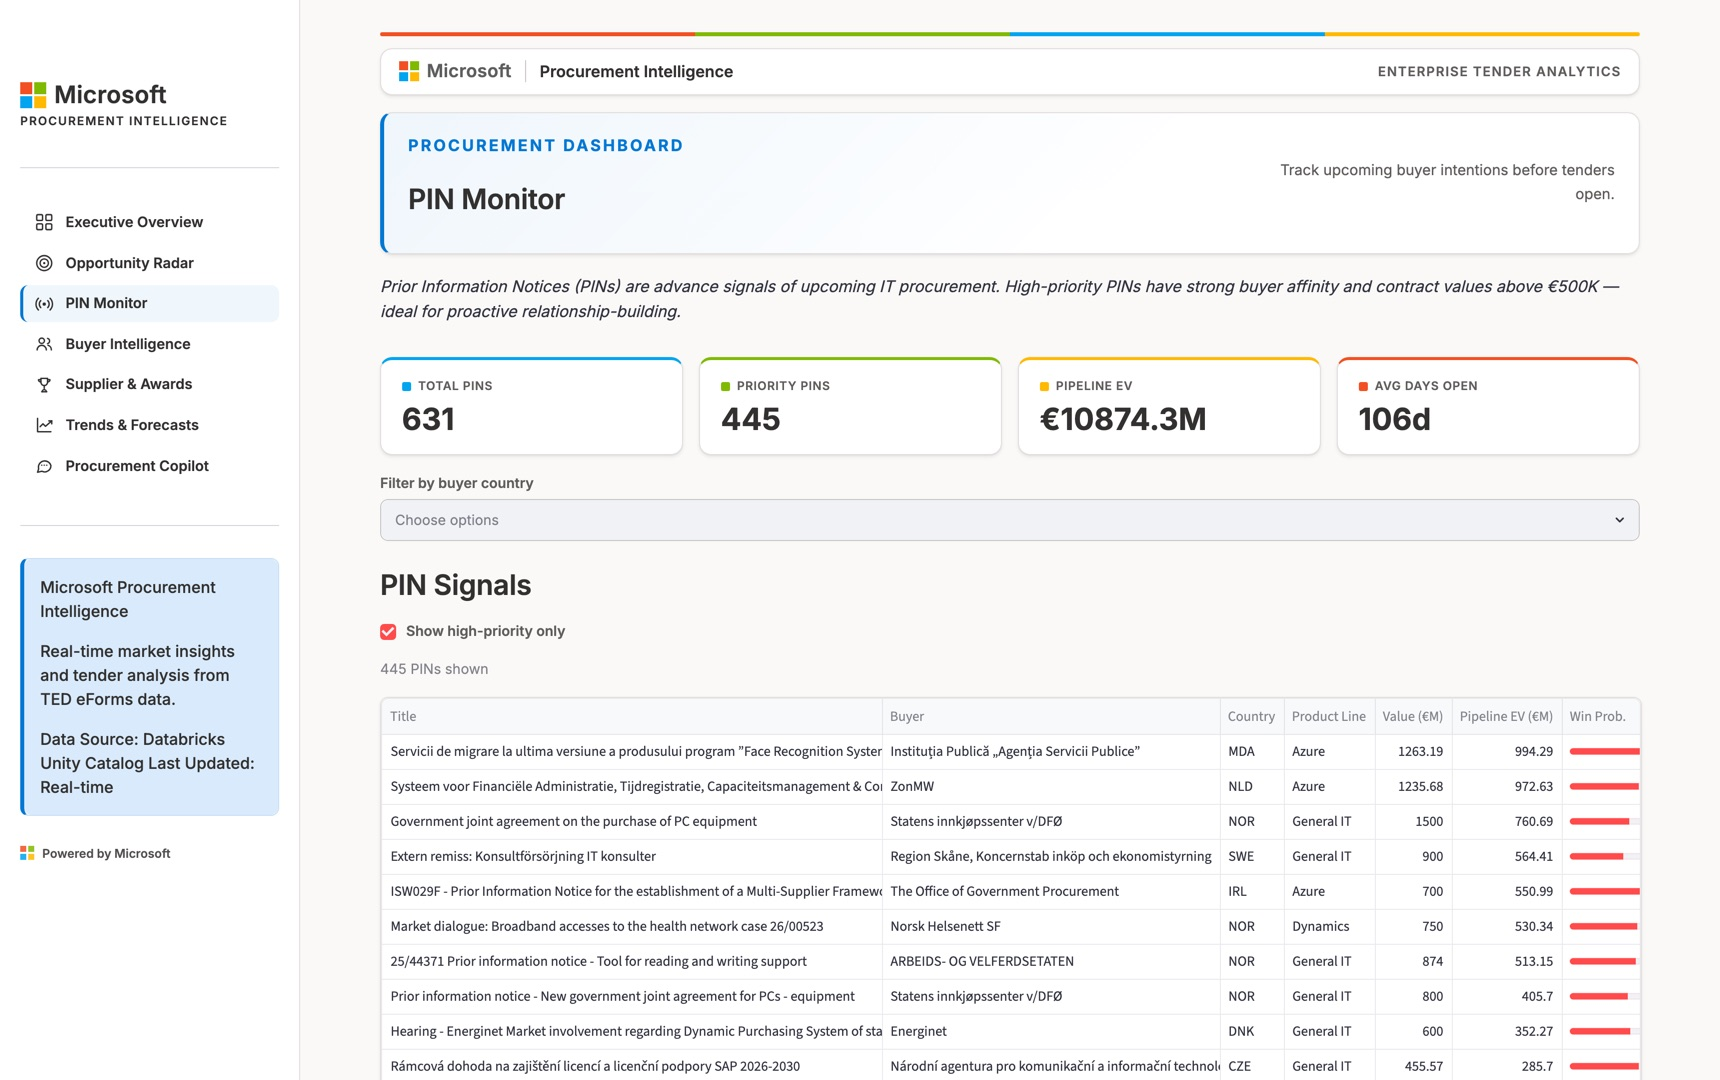
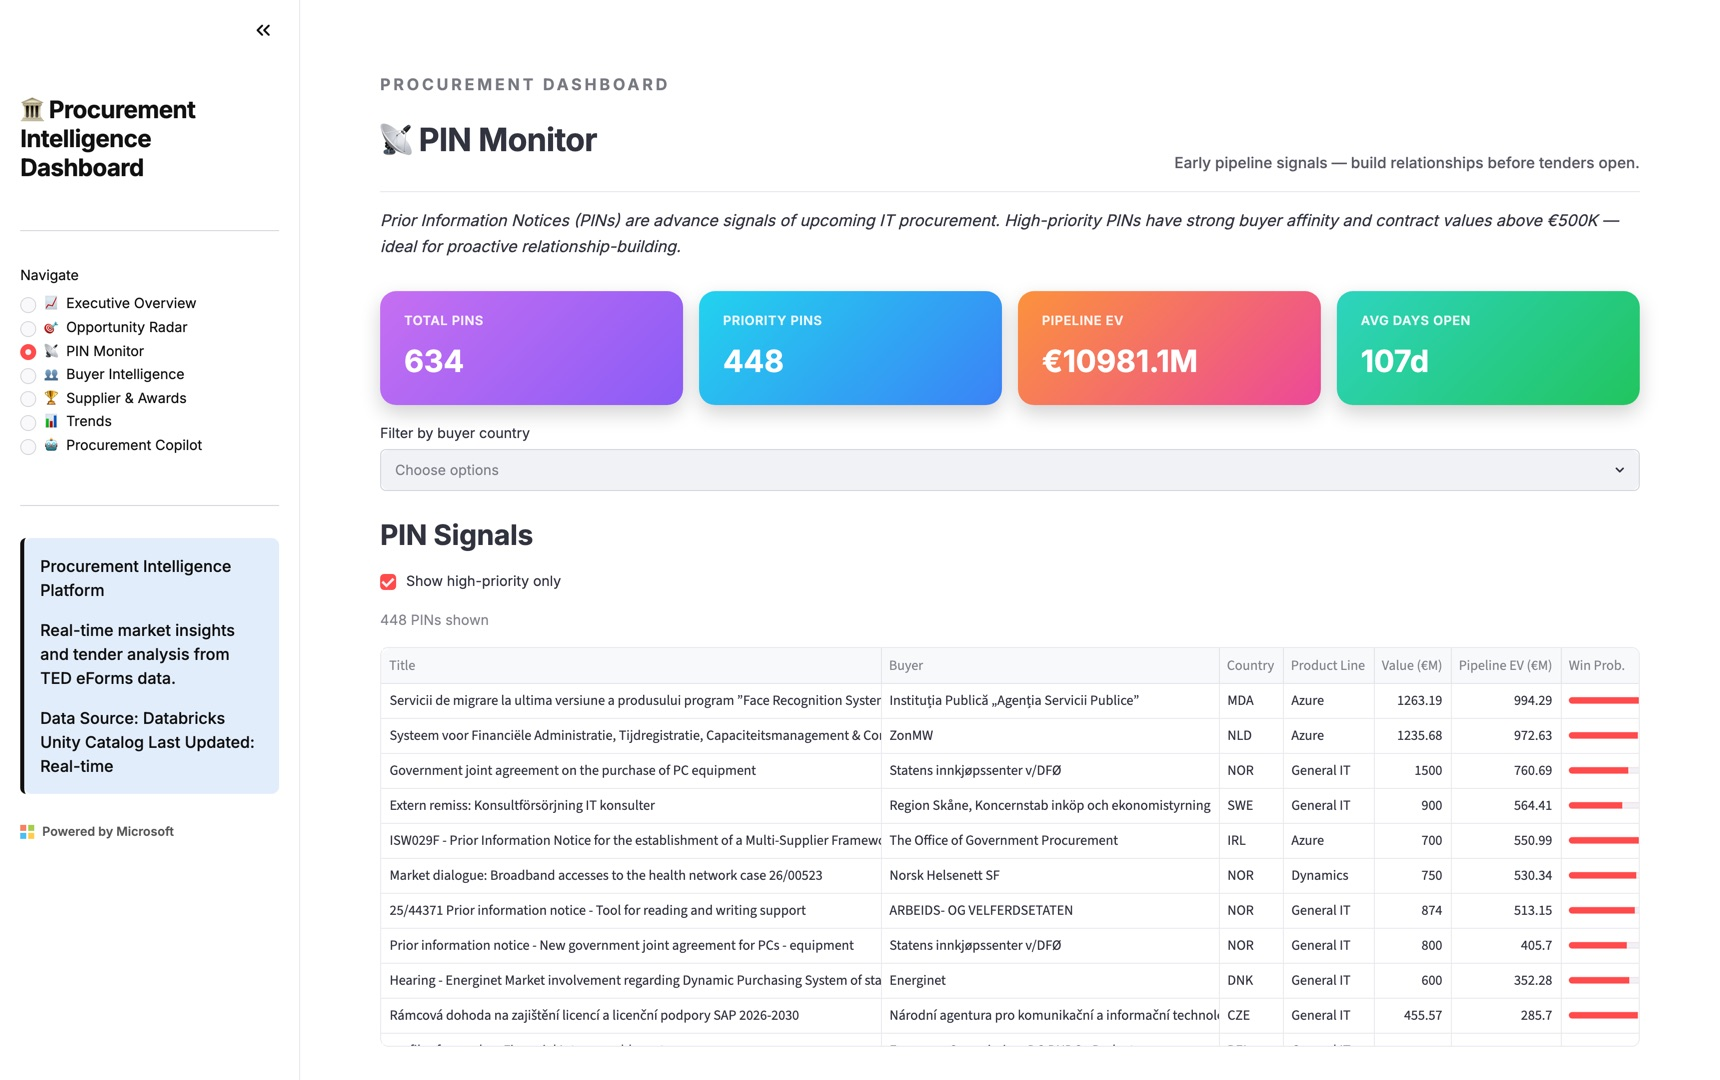
Team feedback round: fresh app.py screenshots, updated Gold-layer numbers, full roster, Trends rename, Copilot-first demo, particle animations

diff --git a/index.html b/index.html
@@ -51,12 +51,13 @@
     padding: 58px 72px;
     display: flex; flex-direction: column; justify-content: center;
     opacity: 0; visibility: hidden;
-    transform: translateY(14px);
-    transition: opacity .45s ease, transform .45s ease, visibility .45s;
+    transform: translate(var(--enter-x, 0px), 14px) scale(.985);
+    transition: opacity .5s cubic-bezier(.2,.7,.3,1), transform .5s cubic-bezier(.2,.7,.3,1), visibility .5s;
     overflow: hidden;
     border-radius: 6px;
   }
-  .slide.active { opacity: 1; visibility: visible; transform: translateY(0); z-index: 2; }
+  .slide.active { opacity: 1; visibility: visible; transform: translate(0, 0) scale(1); z-index: 2; }
+  .particles { position: absolute; inset: 0; width: 100%; height: 100%; pointer-events: none; }
   .slide.dark { background: var(--dark-bg); color: var(--dark-text); }
   .slide.dark .eyebrow { color: var(--sq-blue); }
   .slide.dark h2 { color: var(--dark-text); }
@@ -98,15 +99,24 @@
 
   .brandline { display: flex; align-items: center; gap: 14px; margin-bottom: 34px; }
   .brandline .mslogo { width: 34px; height: 34px; }
+  .slide.active .brandline .mslogo span { opacity: 0; transform: scale(0) rotate(-90deg); animation: sq-pop .55s cubic-bezier(.2,.8,.3,1.35) forwards; }
+  .slide.active .brandline .mslogo span:nth-child(1) { animation-delay: .10s; }
+  .slide.active .brandline .mslogo span:nth-child(2) { animation-delay: .22s; }
+  .slide.active .brandline .mslogo span:nth-child(3) { animation-delay: .34s; }
+  .slide.active .brandline .mslogo span:nth-child(4) { animation-delay: .46s; }
+  @keyframes sq-pop { to { opacity: 1; transform: scale(1) rotate(0deg); } }
   .brandline .name { font-size: 24px; font-weight: 600; color: var(--dark-text); letter-spacing: -0.01em; }
   .brandline .divider { width: 1px; height: 26px; background: var(--dark-line); }
   .brandline .product { font-size: 16px; color: var(--dark-mute); font-weight: 400; }
 
   #s1 h1 { font-size: 66px; font-weight: 700; line-height: 1.06; letter-spacing: -0.02em; max-width: 950px; }
   #s1 h1 .grad {
-    background: linear-gradient(92deg, #4FC3F7 0%, #0078D4 45%, #7FBA00 100%);
+    background: linear-gradient(92deg, #4FC3F7 0%, #0078D4 35%, #7FBA00 65%, #4FC3F7 100%);
+    background-size: 220% 100%;
     -webkit-background-clip: text; background-clip: text; color: transparent;
+    animation: shimmer 7s ease-in-out infinite;
   }
+  @keyframes shimmer { 0%, 100% { background-position: 0% 50%; } 50% { background-position: 100% 50%; } }
   #s1 .sub { font-size: 21px; color: var(--dark-mute); margin-top: 22px; max-width: 760px; line-height: 1.5; }
   #s1 .meta { position: absolute; bottom: 54px; left: 72px; right: 72px; display: flex; justify-content: space-between; align-items: flex-end; }
   #s1 .team { font-size: 14.5px; color: var(--dark-mute); line-height: 1.7; }
@@ -124,7 +134,13 @@
   .card {
     background: var(--paper); border: 1px solid var(--line); border-radius: var(--radius);
     padding: 22px 24px; box-shadow: var(--shadow);
+    transition: transform .22s ease, box-shadow .22s ease;
   }
+  .card:hover, .page-card:hover, .demo-step:hover, .stage-card:hover {
+    transform: translateY(-4px);
+    box-shadow: 0 14px 34px rgba(16, 24, 40, 0.16);
+  }
+  .page-card, .demo-step, .stage-card { transition: transform .22s ease, box-shadow .22s ease; }
   .dark .card { background: var(--dark-card); border-color: var(--dark-line); box-shadow: none; }
   .card .k-dot { width: 10px; height: 10px; border-radius: 3px; display: inline-block; margin-right: 8px; }
   .card h4 { font-size: 16.5px; font-weight: 700; margin-bottom: 6px; display: flex; align-items: center; }
@@ -132,6 +148,8 @@
   .dark .card p { color: var(--dark-mute); }
 
   .stat { font-size: 46px; font-weight: 700; letter-spacing: -0.02em; line-height: 1; }
+  .stat.pop { animation: stat-pop .45s cubic-bezier(.2,.8,.3,1.4); }
+  @keyframes stat-pop { 0% { transform: scale(1); } 45% { transform: scale(1.07); } 100% { transform: scale(1); } }
   .stat-label { font-size: 12.5px; font-weight: 700; text-transform: uppercase; letter-spacing: .12em; color: var(--ink-faint); margin-bottom: 10px; }
   .dark .stat-label { color: var(--dark-mute); }
 
@@ -268,6 +286,11 @@
     background: linear-gradient(135deg, #0078D4, #005A9E);
     color: #fff; border-radius: 16px; padding: 26px 34px; font-size: 22px; font-weight: 700;
     box-shadow: 0 14px 44px rgba(0,120,212,.42); transition: transform .18s ease, box-shadow .18s ease;
+    animation: cta-glow 2.6s ease-in-out infinite;
+  }
+  @keyframes cta-glow {
+    0%, 100% { box-shadow: 0 14px 44px rgba(0,120,212,.42); }
+    50% { box-shadow: 0 14px 60px rgba(0,164,239,.65); }
   }
   .demo-cta small { font-size: 13px; font-weight: 400; opacity: .85; }
   .demo-cta:hover { transform: translateY(-3px); box-shadow: 0 20px 54px rgba(0,120,212,.55); }
@@ -354,6 +377,7 @@
   <!-- 1 ▸ TITLE -->
   <section class="slide dark" id="s1">
     <div class="orb o1"></div><div class="orb o2"></div><div class="orb o3"></div>
+    <canvas class="particles"></canvas>
     <div class="brandline" data-anim="1">
       <span class="mslogo"><span></span><span></span><span></span><span></span></span>
       <span class="name">Microsoft</span>
@@ -365,7 +389,7 @@
     <div class="meta">
       <div class="team" data-anim="4">
         <b>Corporate Capstone, Group Microsoft 3</b> · IE University, MBDS<br>
-        Bojana Blincevic · Nicolás Beard · Omar Ajlouni · Ricardo Liévano · Shadi Hamarneh
+        Bojana Belincevic · Nicolás Beard · Mateus Carneiro · Omar Ajlouni · Ricardo Liévano · Shadi Hamarneh
       </div>
       <div class="live-pill" data-anim="5"><span class="live-dot"></span> System live · refreshed daily at 08:00 UTC</div>
     </div>
@@ -375,7 +399,7 @@
   <section class="slide" id="s2">
     <div class="eyebrow" data-anim="1">The problem</div>
     <h2 data-anim="1">Winnable tenders are found too late, or not at all</h2>
-    <p class="lede" data-anim="2">Every public IT contract in the EU is announced in the open, on TED. In the last 30 days alone, 83,659 notices were published. The signal is public. The problem is scale and noise.</p>
+    <p class="lede" data-anim="2">Every public IT contract in the EU is announced in the open, on TED. In the last 30 days alone, 84,337 notices were published. The signal is public. The problem is scale and noise.</p>
     <div class="grid" data-anim="3">
       <div class="card"><div class="stat-label">Published on TED</div><div class="stat">~2,700<span style="font-size:20px; color:var(--ink-faint); font-weight:600;"> notices/day</span></div><p style="margin-top:8px;">Peaking above 4,000 on busy days, across every sector and every member state.</p></div>
       <div class="card"><div class="stat-label">Format</div><div class="stat" style="font-size:34px; line-height:1.2;">Deeply nested XML</div><p style="margin-top:8px;">eForms notices with multi-step reference chains. Not readable by humans at scale.</p></div>
@@ -528,12 +552,12 @@
     <div class="eyebrow" data-anim="1">The product</div>
     <h2 data-anim="1">Seven pages, one question each</h2>
     <div class="grid" data-anim="2">
-      <div class="page-card"><h4>Executive Overview</h4><div class="q">"What is the market?"</div><p>232,330 open tenders, 91 countries, live KPIs.</p></div>
+      <div class="page-card"><h4>Executive Overview</h4><div class="q">"What is the market?"</div><p>234,164 open tenders, 93 countries, live KPIs.</p></div>
       <div class="page-card"><h4>Opportunity Radar</h4><div class="q">"Which tenders should we chase?"</div><p>Every open IT lot, ranked by ML score.</p></div>
-      <div class="page-card"><h4>PIN Monitor</h4><div class="q">"Who is about to buy?"</div><p>631 pre-tender signals, mapped to product lines.</p></div>
+      <div class="page-card"><h4>PIN Monitor</h4><div class="q">"Who is about to buy?"</div><p>634 pre-tender signals, mapped to product lines.</p></div>
       <div class="page-card"><h4>Buyer Intelligence</h4><div class="q">"Who buys, and how?"</div><p>Top authorities, legal types, spend patterns.</p></div>
-      <div class="page-card"><h4>Supplier &amp; Awards</h4><div class="q">"Who is winning today?"</div><p>226,002 awards and the criteria behind them.</p></div>
-      <div class="page-card"><h4>Trends &amp; Forecasts</h4><div class="q">"How is the market moving?"</div><p>Daily volume, momentum, 30 and 90 day outlook.</p></div>
+      <div class="page-card"><h4>Supplier &amp; Awards</h4><div class="q">"Who is winning today?"</div><p>228,117 awards and the criteria behind them.</p></div>
+      <div class="page-card"><h4>Trends</h4><div class="q">"How is the market moving?"</div><p>Daily notice volume and market momentum over time.</p></div>
       <div class="page-card"><h4>Procurement Copilot</h4><div class="q">"Can I just ask?"</div><p>Natural language answers, grounded in Gold data.</p></div>
       <div class="page-card" style="background:linear-gradient(135deg,#0078D4,#005A9E); border:none;"><h4 style="color:#fff;">Built for Microsoft</h4><div class="q" style="color:rgba(255,255,255,.85);">Fluent design, product line mapping</div><p style="color:rgba(255,255,255,.85);">PINs and tenders tagged Azure, Dynamics, M365, or General IT.</p></div>
     </div>
@@ -580,9 +604,9 @@
           <div class="b"><span><b>Mapped to Microsoft:</b> every signal is tagged Azure, Dynamics, or General IT, with a pipeline expected value.</span></div>
         </div>
         <div class="kpi-row" data-anim="3">
-          <div class="kpi-mini"><div class="v">631</div><div class="l">Live PINs</div></div>
-          <div class="kpi-mini"><div class="v">445</div><div class="l">High priority</div></div>
-          <div class="kpi-mini"><div class="v">€10.9B</div><div class="l">Pipeline EV</div></div>
+          <div class="kpi-mini"><div class="v">634</div><div class="l">Live PINs</div></div>
+          <div class="kpi-mini"><div class="v">448</div><div class="l">High priority</div></div>
+          <div class="kpi-mini"><div class="v">€11.0B</div><div class="l">Pipeline EV</div></div>
         </div>
       </div>
     </div>
@@ -636,9 +660,9 @@
       <div data-anim="3" style="font-size:13.5px; color:var(--dark-mute); max-width:230px; line-height:1.55;">Scan to follow along on your own device while we present.</div>
     </div>
     <div class="demo-steps">
-      <div class="demo-step" data-anim="4"><div class="n">1</div><h4>Executive Overview</h4><p>The whole EU market on one screen: 232,330 open tenders across 91 countries, updated this morning.</p></div>
-      <div class="demo-step" data-anim="5"><div class="n">2</div><h4>Opportunity Radar + PIN Monitor</h4><p>Filter to a country, watch the ranking reorder, then jump to the buyers who are about to publish tenders.</p></div>
-      <div class="demo-step" data-anim="6"><div class="n">3</div><h4>Procurement Copilot</h4><p>Ask "who are the top 5 buyers by spend?" and watch it call a Gold layer tool and answer with real figures.</p></div>
+      <div class="demo-step" data-anim="4"><div class="n">1</div><h4>Procurement Copilot</h4><p>We start here: ask "who are the top 5 buyers by spend?" and watch it call a Gold layer tool and answer with real figures.</p></div>
+      <div class="demo-step" data-anim="5"><div class="n">2</div><h4>Executive Overview</h4><p>Then the whole EU market on one screen: 234,164 open tenders across 93 countries, updated this morning.</p></div>
+      <div class="demo-step" data-anim="6"><div class="n">3</div><h4>Opportunity Radar + PIN Monitor</h4><p>Filter to a country, watch the ranking reorder, then jump to the buyers who are about to publish tenders.</p></div>
     </div>
   </section>
 
@@ -646,14 +670,14 @@
   <section class="slide" id="s13">
     <div class="eyebrow" data-anim="1">Results</div>
     <h2 data-anim="1">A working system, not a prototype</h2>
-    <p class="lede" data-anim="2">Everything below is live in the deployed product today, measured directly from the Gold layer.</p>
+    <p class="lede" data-anim="2">Everything below is live in the deployed product today, measured directly from the Gold layer on July 3, 2026.</p>
     <div class="grid">
-      <div class="card counter-card" data-anim="3"><div class="stat-label">Open tenders tracked</div><div class="stat" data-count="232330">0</div><p>Every open Contract Notice in the EU, refreshed daily.</p></div>
-      <div class="card counter-card" data-anim="3"><div class="stat-label">Countries covered</div><div class="stat" data-count="91">0</div><p>All EU member states plus EEA and beyond.</p></div>
-      <div class="card counter-card" data-anim="4"><div class="stat-label">Awards analyzed</div><div class="stat" data-count="226002">0</div><p>Historical outcomes with bid counts, our training signal.</p></div>
-      <div class="card counter-card" data-anim="4"><div class="stat-label">Awarded value analyzed</div><div class="stat">€<span data-count="590">0</span>B</div><p>Contract value flowing through the awards layer.</p></div>
-      <div class="card counter-card" data-anim="5"><div class="stat-label">Notices, last 30 days</div><div class="stat" data-count="83659">0</div><p>Ingested, parsed, and scored without a single manual step.</p></div>
-      <div class="card counter-card" data-anim="5"><div class="stat-label">Pre-tender pipeline</div><div class="stat">€<span data-count="10.9" data-decimals="1">0</span>B</div><p>Expected value across 631 live PIN signals.</p></div>
+      <div class="card counter-card" data-anim="3"><div class="stat-label">Open tenders tracked</div><div class="stat" data-count="234164">0</div><p>Every open Contract Notice in the EU, refreshed daily.</p></div>
+      <div class="card counter-card" data-anim="3"><div class="stat-label">Countries covered</div><div class="stat" data-count="93">0</div><p>The EU's 27 member states, plus EEA and international buyers that publish on TED.</p></div>
+      <div class="card counter-card" data-anim="4"><div class="stat-label">Awards analyzed</div><div class="stat" data-count="228117">0</div><p>Historical outcomes with bid counts, our training signal.</p></div>
+      <div class="card counter-card" data-anim="4"><div class="stat-label">Awarded value analyzed</div><div class="stat">€<span data-count="591">0</span>B</div><p>Contract value flowing through the awards layer.</p></div>
+      <div class="card counter-card" data-anim="5"><div class="stat-label">Notices, last 30 days</div><div class="stat" data-count="84337">0</div><p>Ingested, parsed, and scored without a single manual step.</p></div>
+      <div class="card counter-card" data-anim="5"><div class="stat-label">Pre-tender pipeline</div><div class="stat">€<span data-count="11.0" data-decimals="1">0</span>B</div><p>Expected value across 634 live PIN signals.</p></div>
     </div>
     <p class="lede" data-anim="6" style="margin-top:24px; font-size:14.5px;"><b>The business outcome:</b> an analyst opens one page each morning and sees every open EU IT tender ranked by expected value. A task that previously was not done at all.</p>
   </section>
@@ -682,6 +706,7 @@
   <!-- 15 ▸ CLOSING -->
   <section class="slide dark" id="s15">
     <div class="orb o1"></div><div class="orb o2"></div>
+    <canvas class="particles"></canvas>
     <div class="brandline" data-anim="1" style="margin-bottom:26px;">
       <span class="mslogo"><span></span><span></span><span></span><span></span></span>
       <span class="name">Microsoft</span>
@@ -701,7 +726,7 @@
       </a>
       <div data-anim="6" style="font-size:14.5px; color:var(--dark-mute); line-height:1.7; margin-left:10px;">
         <b style="color:var(--dark-text);">Thank you. Questions welcome.</b><br>
-        Bojana · Nicolás · Omar · Ricardo · Shadi
+        Bojana · Nicolás · Mateus · Omar · Ricardo · Shadi
       </div>
     </div>
   </section>
@@ -748,12 +773,72 @@
         const eased = 1 - Math.pow(1 - p, 3);
         el.textContent = (target * eased).toLocaleString('en-US', { minimumFractionDigits: decimals, maximumFractionDigits: decimals });
         if (p < 1) requestAnimationFrame(tick);
+        else {
+          const stat = el.closest('.stat') || el;
+          stat.classList.add('pop');
+          setTimeout(() => stat.classList.remove('pop'), 600);
+        }
       })(t0);
     });
   }
 
+  // ── particle network on dark hero slides ──
+  const MS_COLORS = ['#0078D4', '#7FBA00', '#FFB900', '#F25022', '#00A4EF'];
+  function makeParticles(canvas) {
+    const ctx = canvas.getContext('2d');
+    let w = 0, h = 0, pts = [], raf = null;
+    function resize() {
+      w = canvas.width = Math.max(canvas.offsetWidth, 640) * 2;
+      h = canvas.height = Math.max(canvas.offsetHeight, 360) * 2;
+    }
+    function seed() {
+      pts = Array.from({ length: 44 }, () => ({
+        x: Math.random() * w, y: Math.random() * h,
+        vx: (Math.random() - .5) * .34, vy: (Math.random() - .5) * .34,
+        r: 2 + Math.random() * 3.2,
+        c: MS_COLORS[Math.random() * MS_COLORS.length | 0],
+      }));
+    }
+    const LINK = 240 * 240;
+    function step() {
+      ctx.clearRect(0, 0, w, h);
+      for (const p of pts) {
+        p.x += p.vx; p.y += p.vy;
+        if (p.x < 0) p.x = w; if (p.x > w) p.x = 0;
+        if (p.y < 0) p.y = h; if (p.y > h) p.y = 0;
+      }
+      ctx.lineWidth = 1;
+      for (let i = 0; i < pts.length; i++) for (let j = i + 1; j < pts.length; j++) {
+        const a = pts[i], b = pts[j], dx = a.x - b.x, dy = a.y - b.y, d = dx * dx + dy * dy;
+        if (d < LINK) {
+          ctx.strokeStyle = 'rgba(255,255,255,' + (0.09 * (1 - d / LINK)).toFixed(3) + ')';
+          ctx.beginPath(); ctx.moveTo(a.x, a.y); ctx.lineTo(b.x, b.y); ctx.stroke();
+        }
+      }
+      for (const p of pts) {
+        ctx.globalAlpha = .7; ctx.fillStyle = p.c;
+        ctx.beginPath(); ctx.arc(p.x, p.y, p.r, 0, 7); ctx.fill();
+      }
+      ctx.globalAlpha = 1;
+      raf = requestAnimationFrame(step);
+    }
+    resize(); seed();
+    addEventListener('resize', () => { resize(); seed(); });
+    return {
+      start() { if (!raf) { resize(); raf = requestAnimationFrame(step); } },
+      stop() { if (raf) { cancelAnimationFrame(raf); raf = null; } },
+    };
+  }
+  const particleSystems = new Map();
+  document.querySelectorAll('.particles').forEach(c => particleSystems.set(c.closest('.slide'), makeParticles(c)));
+  function syncParticles(activeSlide) {
+    particleSystems.forEach((sys, slide) => slide === activeSlide ? sys.start() : sys.stop());
+  }
+
   function show(n, pushHash = true) {
-    idx = Math.max(0, Math.min(total - 1, n));
+    const bounded = Math.max(0, Math.min(total - 1, n));
+    stage.style.setProperty('--enter-x', bounded >= idx ? '34px' : '-34px');
+    idx = bounded;
     slides.forEach((s, i) => s.classList.toggle('active', i === idx));
     document.getElementById('counter').textContent = (idx + 1) + ' / ' + total;
     document.getElementById('progress').style.width = ((idx + 1) / total * 100) + '%';
@@ -764,6 +849,7 @@
       el.style.animation = 'none'; void el.offsetWidth; el.style.animation = '';
     });
     if (active.querySelector('[data-count]')) setTimeout(() => animateCounters(active), 350);
+    syncParticles(active);
   }
 
   function next() { show(idx + 1); }